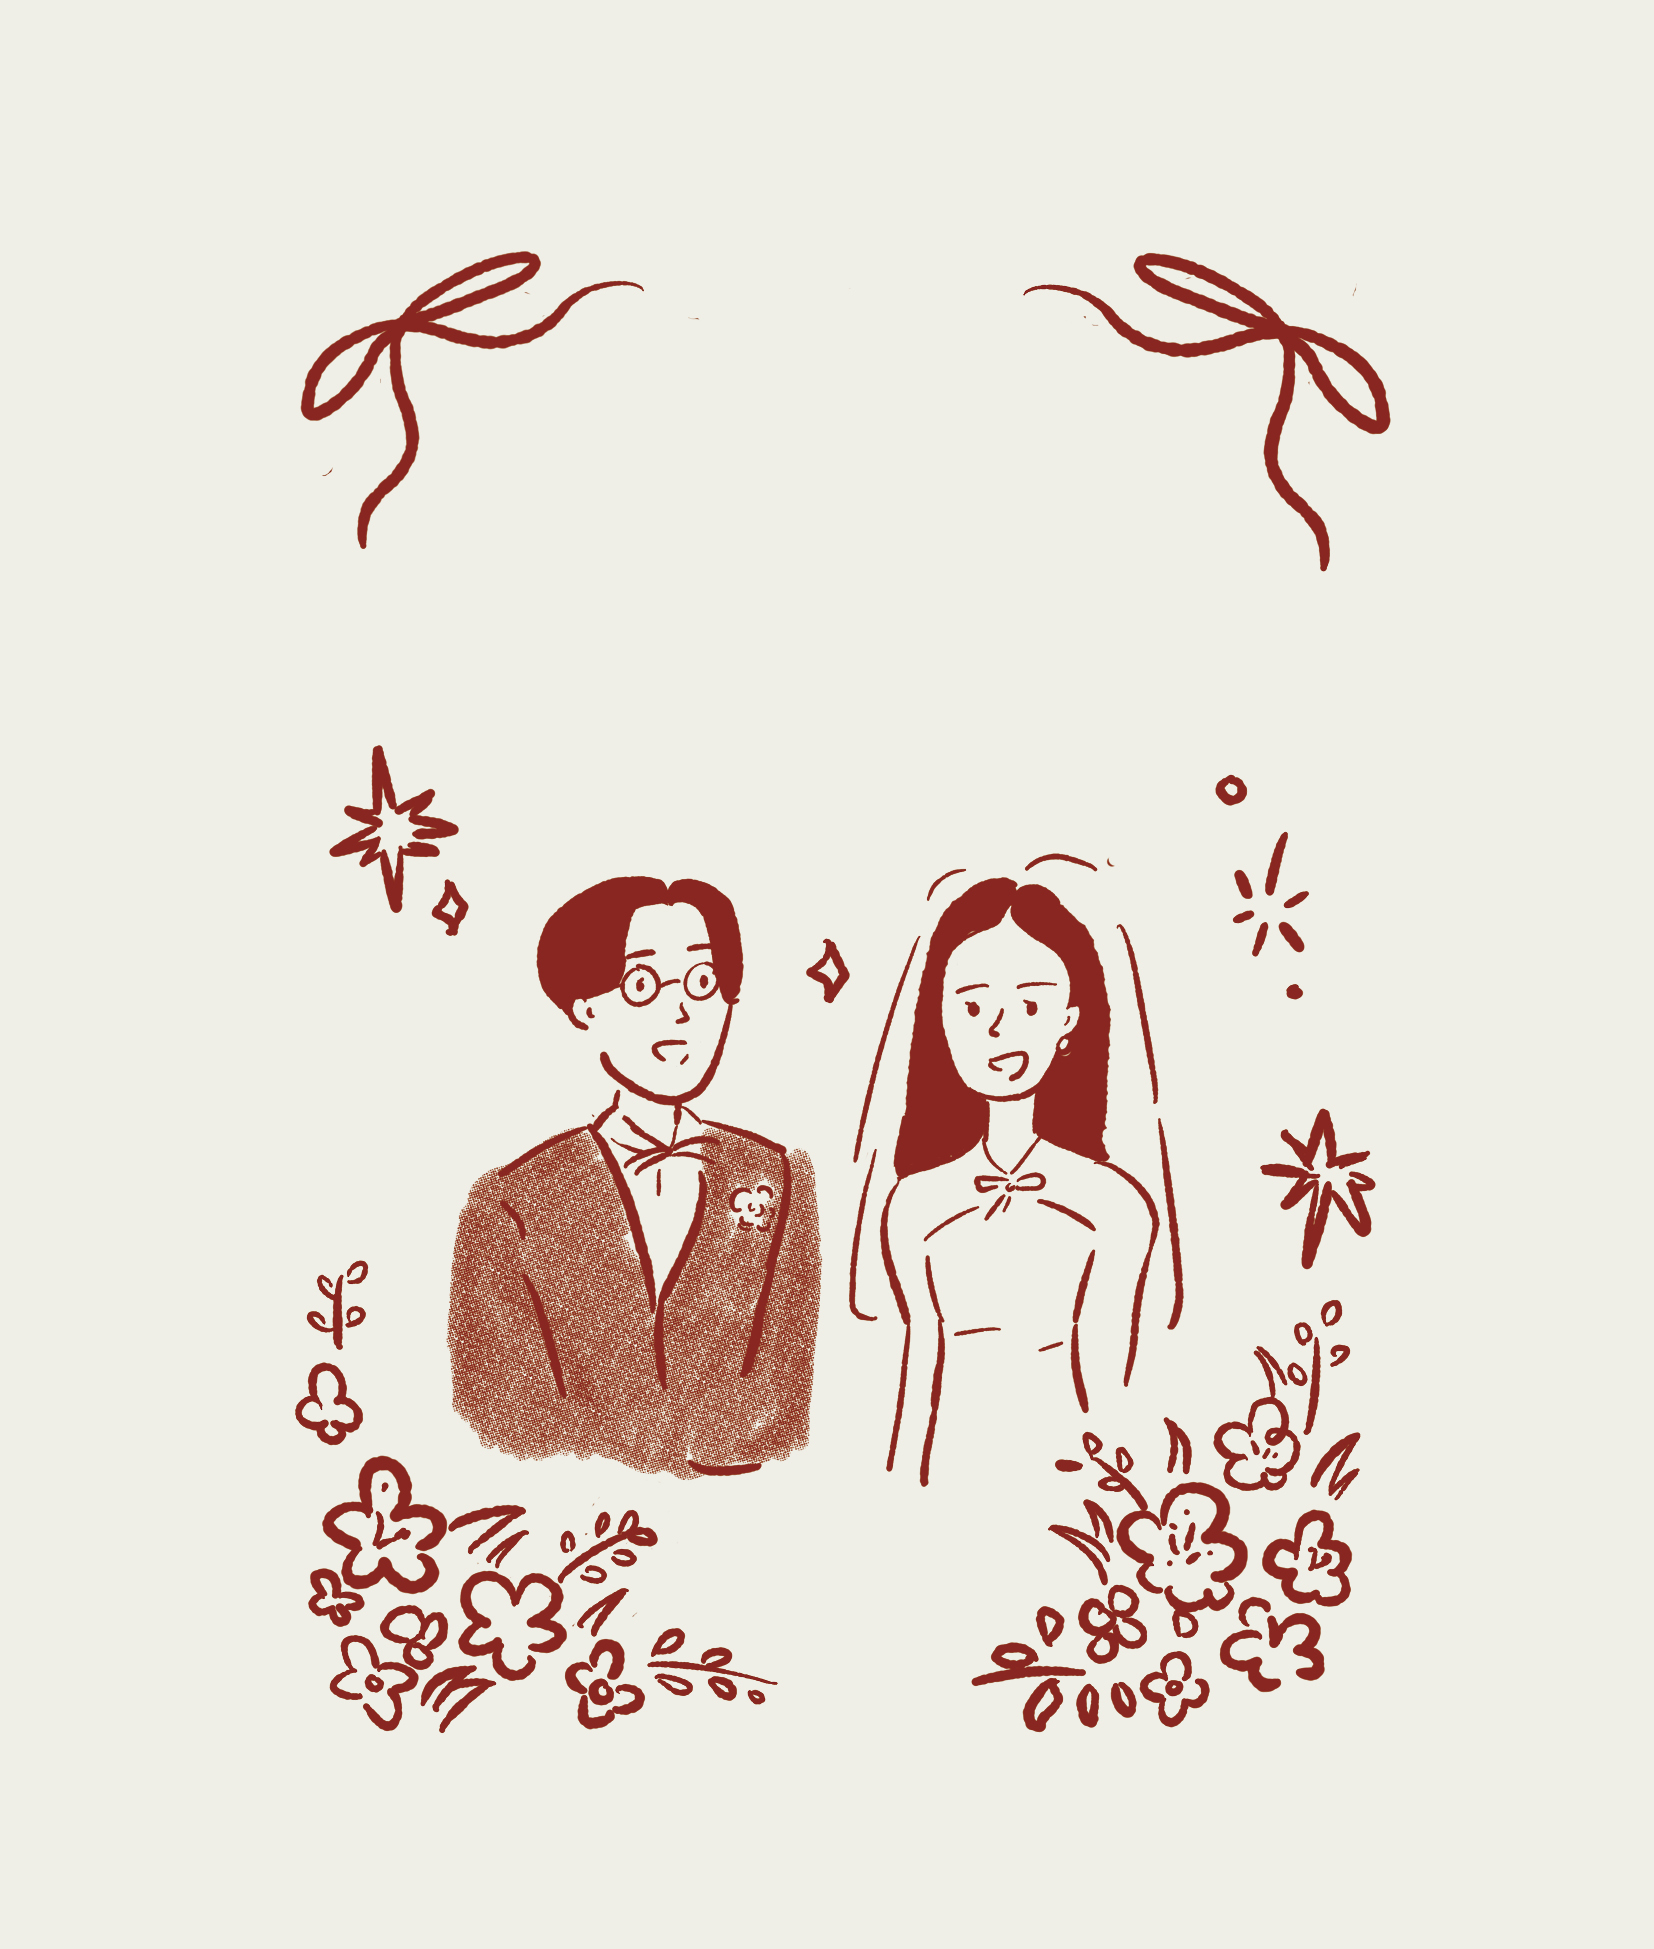
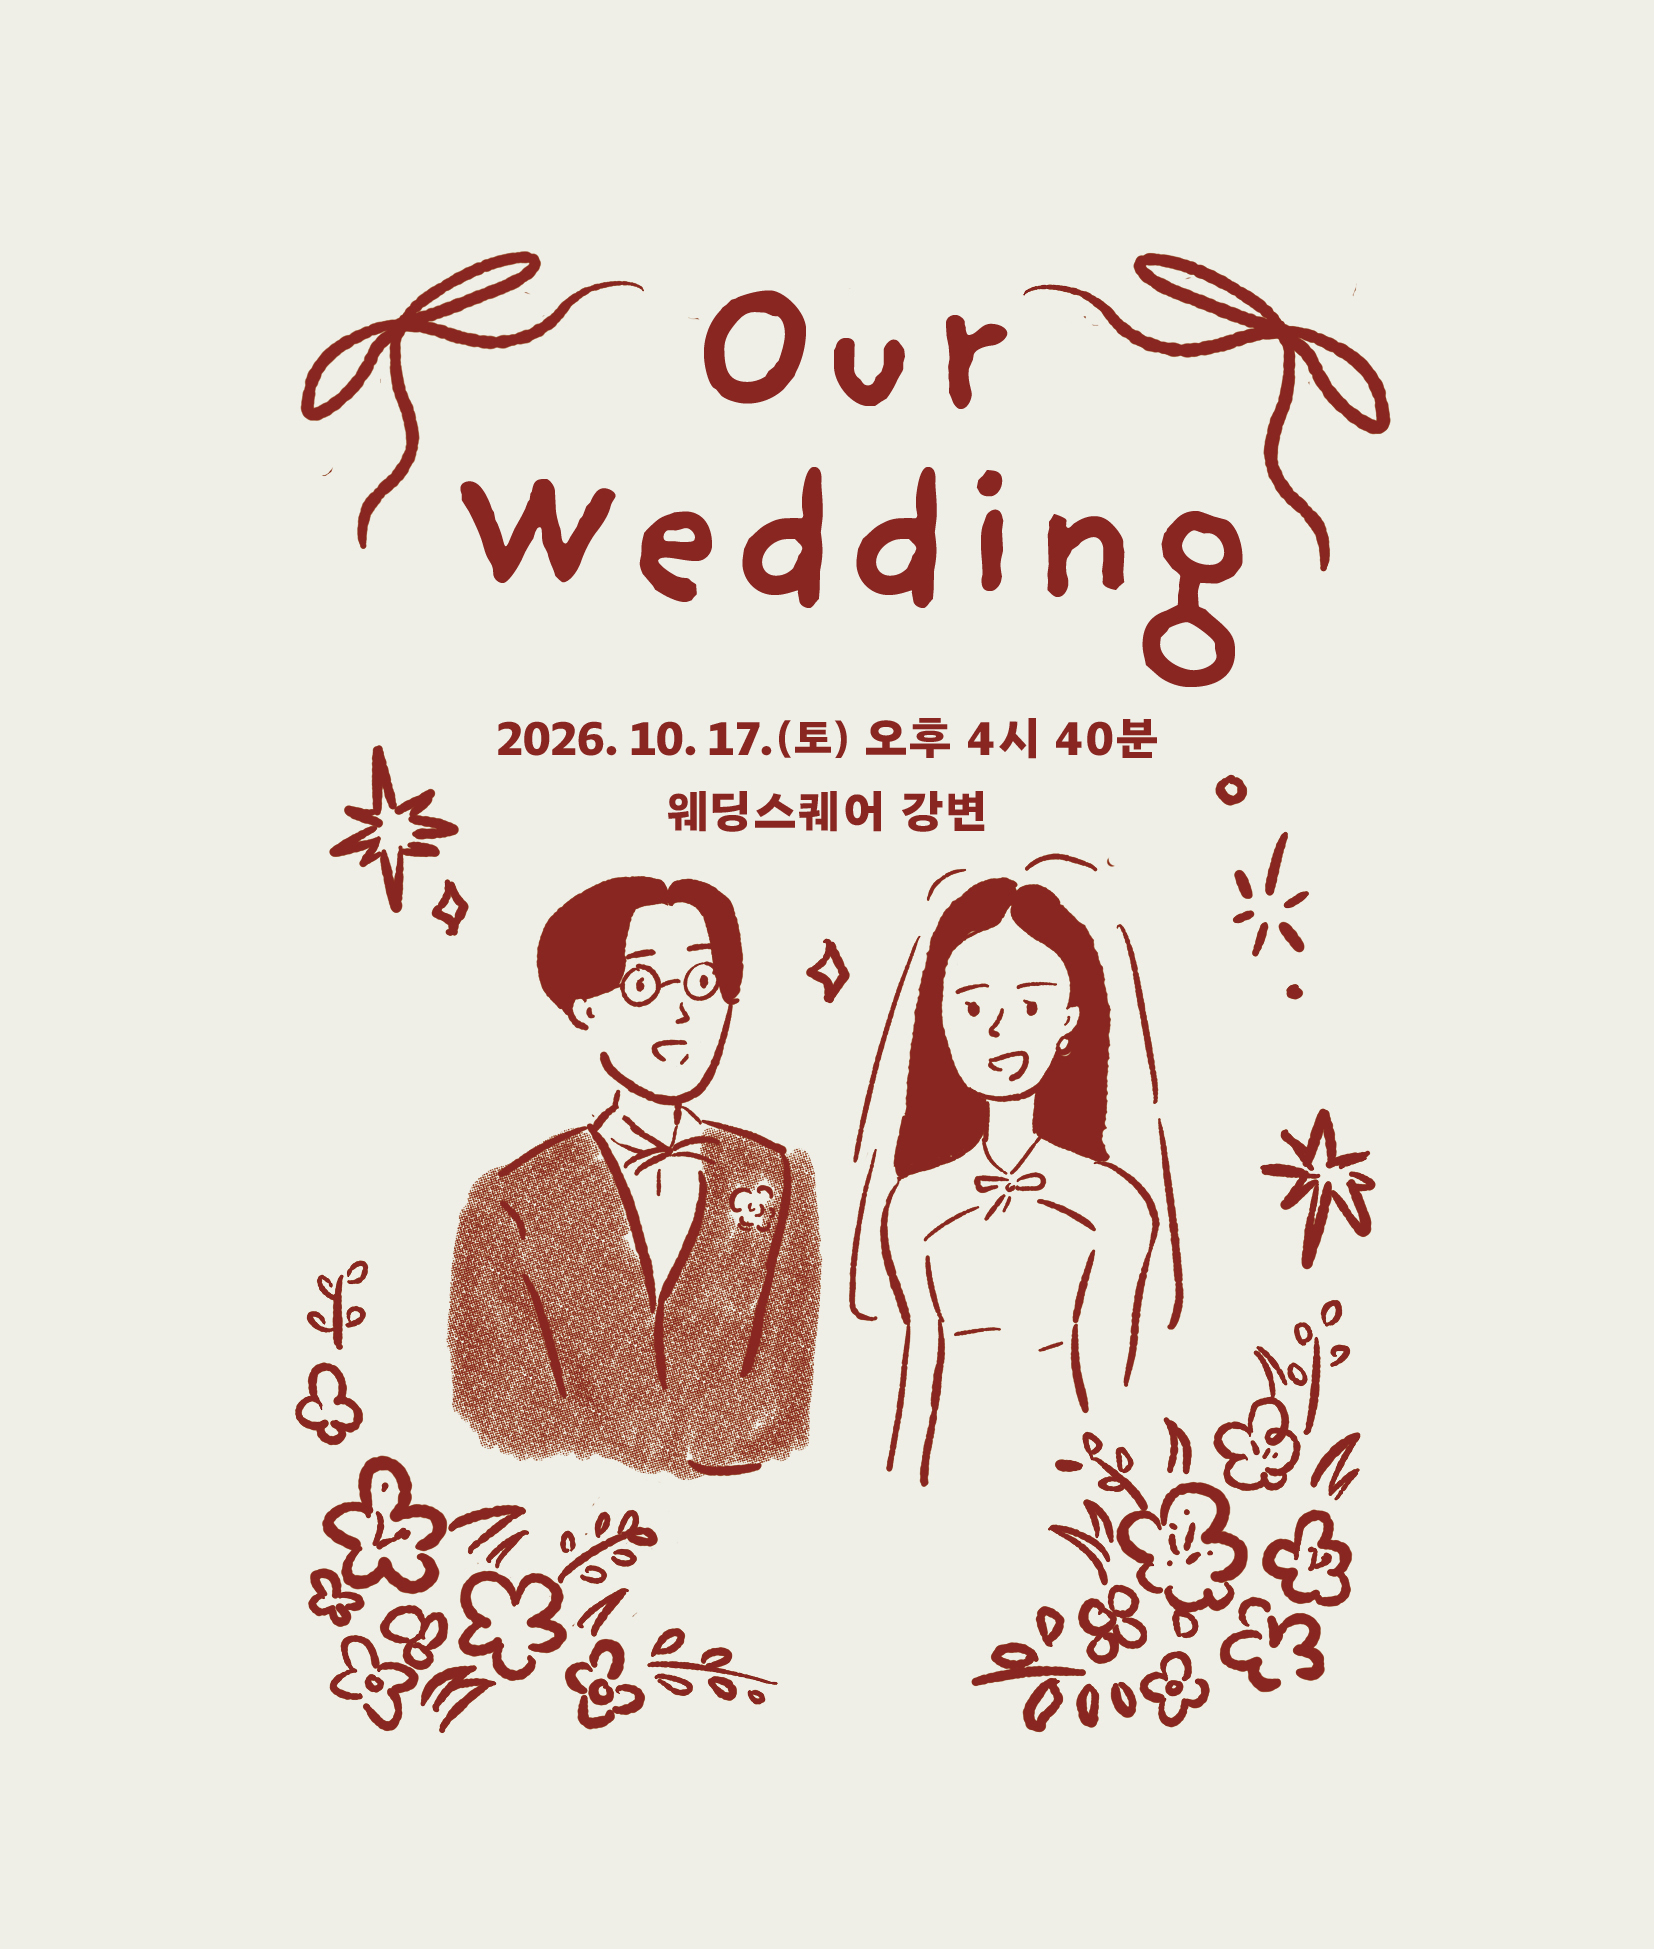
fix : 달력 추가

Changed region(s): [[0.2775, 0.2463, 0.7709, 0.431], [0.4008, 0.1539, 0.6167, 0.2155]]

diff --git a/styles.css b/styles.css
@@ -143,9 +143,9 @@ a {
   background: transparent;
   display: flex;
   flex-direction: column;
-  justify-content: flex-start;
+  justify-content: flex-end;
   align-items: center;
-  padding: clamp(135px, 17svh, 170px) 28px 0;
+  padding: 0 28px clamp(78px, 10svh, 110px);
   text-align: center;
   color: #8f2f27;
   text-shadow: 0 1px 0 rgba(255, 255, 255, 0.55);
@@ -173,7 +173,7 @@ a {
   font-weight: 400;
   letter-spacing: 0.09em;
   opacity: 0.96;
-  margin-bottom: 10px;
+  margin-bottom: 12px;
 }
 
 .hero-venue {

diff --git a/index.html b/index.html
@@ -38,9 +38,9 @@
   <section class="hero">
     <img class="hero-image" src="" alt="Wedding photo" loading="eager">
     <div class="hero-overlay">
-      <div class="hero-names"></div>
-      <div class="hero-date"></div>
-      <div class="hero-venue"></div>
+      <!-- <div class="hero-names"></div> -->
+     <!-- <div class="hero-date"></div>
+      <div class="hero-venue"></div>-->
     </div>
     <div class="hero-scroll"></div>
   </section>
